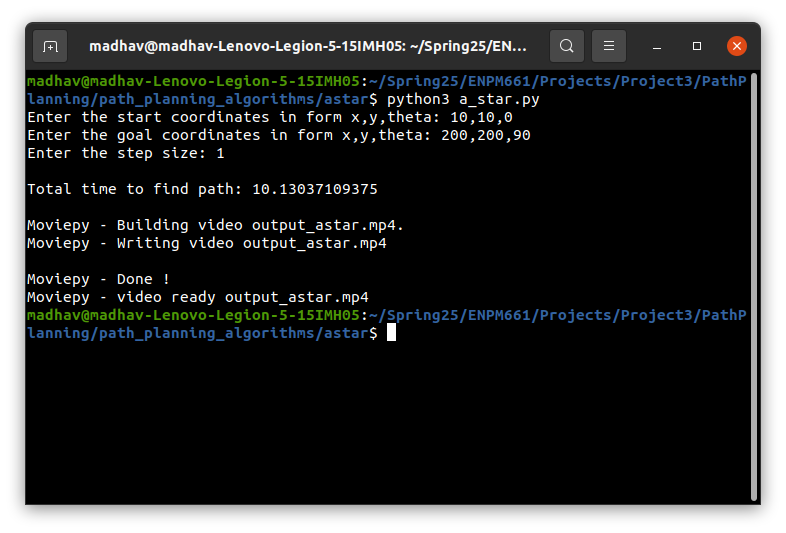
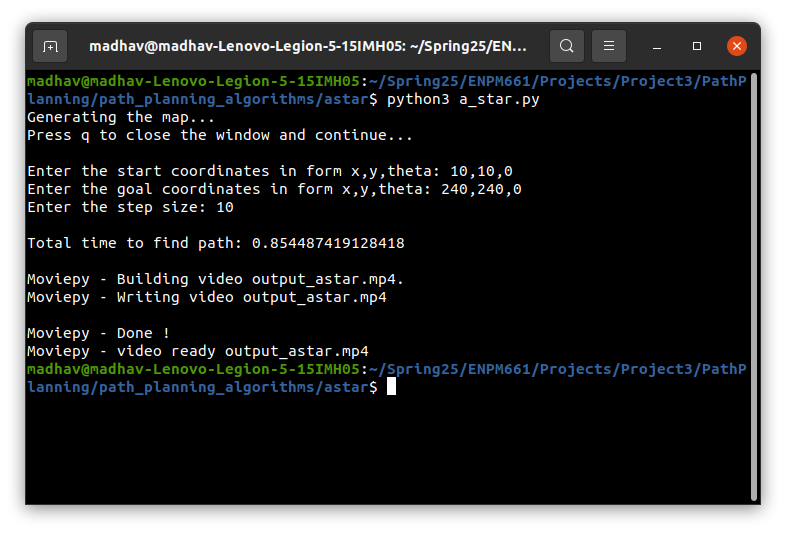
Bunch of chnages

Changed region(s): [[0.0305, 0.5103, 0.9466, 0.7505], [0.0305, 0.2101, 0.6718, 0.4803]]

diff --git a/path_planning_algorithms/astar/a_star.py b/path_planning_algorithms/astar/a_star.py
@@ -4,7 +4,6 @@ import numpy as np
 import matplotlib.pyplot as plt
 import sympy
 from sympy import symbols
-from itertools import pairwise
 import math
 from queue import PriorityQueue
 from moviepy.editor import ImageSequenceClip
@@ -301,6 +300,9 @@ def scale(image,scalex,scaley):
   return np.repeat(np.repeat(image,scalex,axis=1),scaley,axis=0)
 
 # Drawing thr grid
+
+print("Generating the map...")
+
 image = np.full((height,width,3),BACKGROUND_COLOR)
 for row in range(height):
   for column in range(width):
@@ -394,7 +396,6 @@ class Node():
       curr_node = curr_node.parent_node
     return path[::-1] # Return path from initial node to goal node
 
-# Function to expand node
 def expand_node(node:Node,length):
   x,y,theta = node.value
   L = length

diff --git a/path_planning_algorithms/astar/README.md b/path_planning_algorithms/astar/README.md
@@ -3,7 +3,7 @@
 
 ### Students:
 
-1) Siddhant ()
+1) Siddhant Pramod Deshmukh (121322463)
 2) Pon Aswin Sankaralingam (121322517)
 3) Venkata Madhav Tadavarthi (121058768)
 
@@ -49,7 +49,7 @@ cd path_planning_algorithms/astar/
 You can run the python file by the following command:
 
 ```
-python3 a_star.py
+python3 Proj3_Siddhant_PonAswin_VenkataMadhav.py
 ```
 
 ## Instructions
@@ -71,12 +71,14 @@ After viewing the map, press Q key to close the window and continue.
 - Step-size: ($1 < 10 < 10$)
     - "Enter the step size: "
 
+The script will validate whether the input and goal coordinates are within free space. Otherwise prints a message "-- Point inside obstacle space, please chose different starting point --" and "-- End inside obstacle space, please chose different starting point --" until valid coordinates are provided by the user. 
+
+If the step size is not between 1 to 10, it prints a message "Step size value should be a value between 1 and 10" and asks the user to provide step size untill valid value is given.
+
 ### Example:
 
 ![output](./assets/output.png)
 
-The script will validate whether the input and goal coordinates are within free space. Otherwise prints a message "-- Point inside obstacle space, please chose different starting point --" and "-- End inside obstacle space, please chose different starting point --" until valid coordinates are provided by the user. 
-
-If the step size is not between 1 to 10, it prints a message "Step size value should be a value between 1 and 10" and asks the user to provide step size untill valid value is given.
+![output](./assets/output.gif)
 
 
